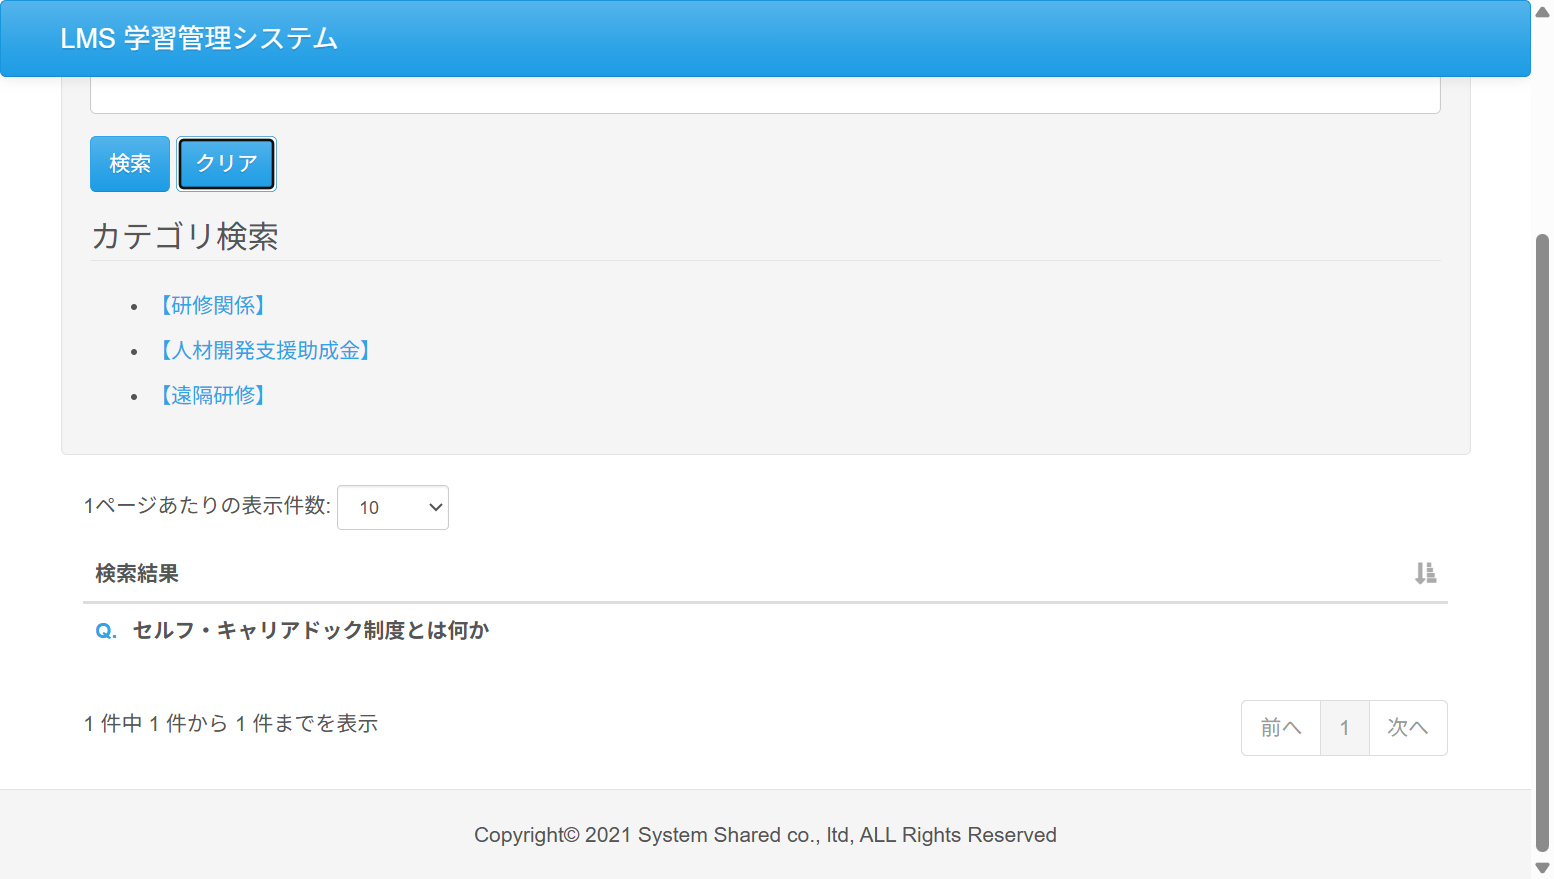
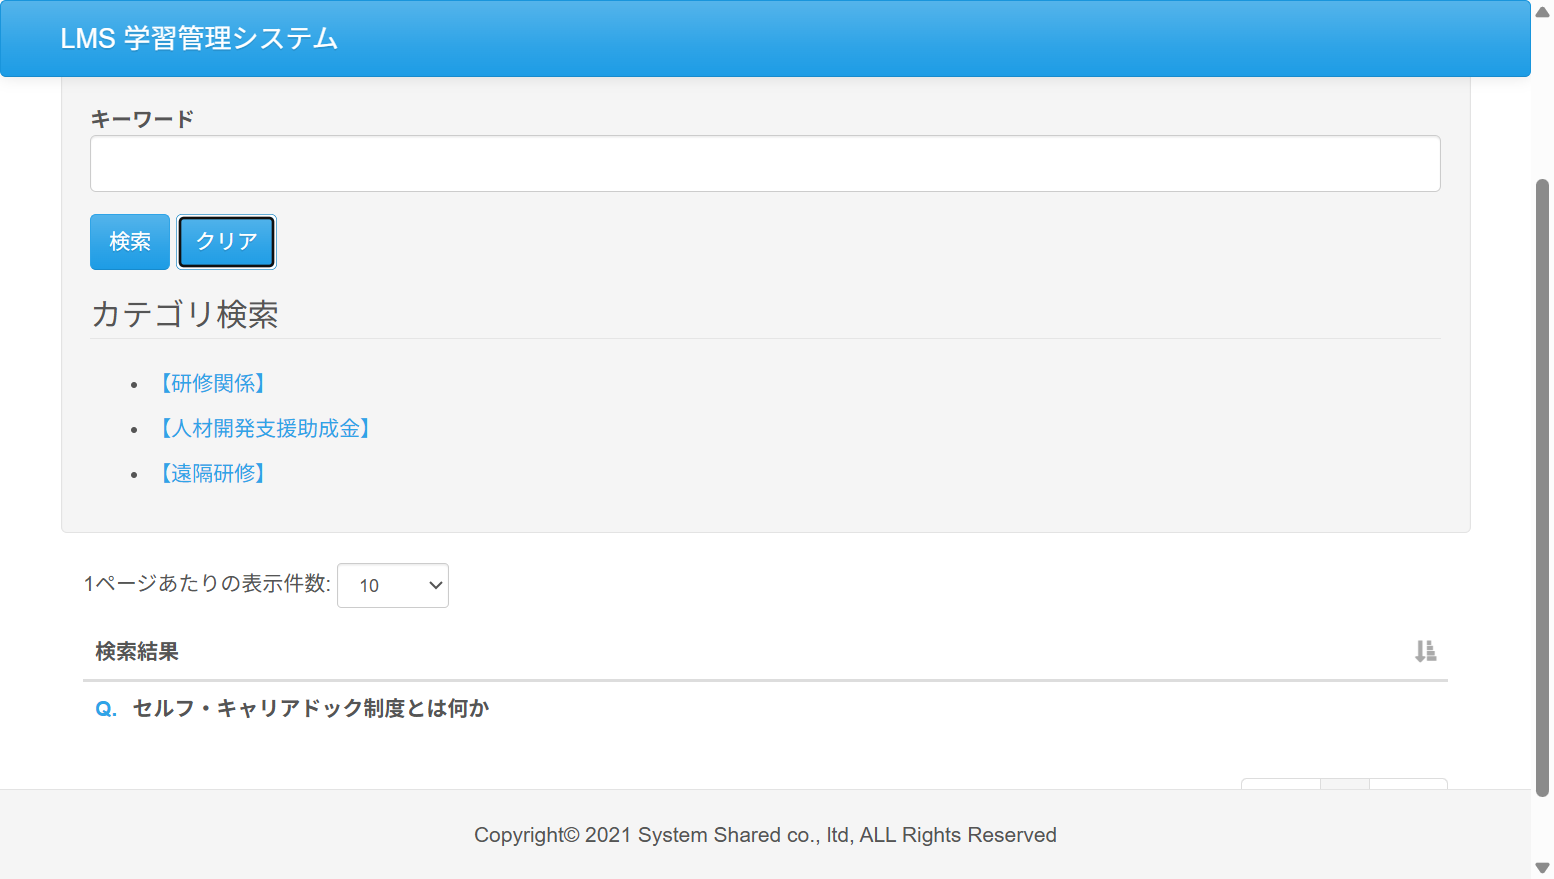
fix: Case06.java テストコード修正
Case06/test05(), test06()メソッドの作成

diff --git a/test_code_creation_name/src/test/java/jp/co/sss/lms/ct/f02_faq/Case06.java b/test_code_creation_name/src/test/java/jp/co/sss/lms/ct/f02_faq/Case06.java
@@ -3,9 +3,12 @@ package jp.co.sss.lms.ct.f02_faq;
 import static jp.co.sss.lms.ct.util.WebDriverUtils.*;
 import static org.junit.jupiter.api.Assertions.*;
 
+import java.io.File;
+import java.io.IOException;
 import java.util.Iterator;
 import java.util.Set;
 
+import org.apache.commons.io.FileUtils;
 import org.junit.jupiter.api.AfterAll;
 import org.junit.jupiter.api.BeforeAll;
 import org.junit.jupiter.api.DisplayName;
@@ -14,6 +17,8 @@ import org.junit.jupiter.api.Order;
 import org.junit.jupiter.api.Test;
 import org.junit.jupiter.api.TestMethodOrder;
 import org.openqa.selenium.By;
+import org.openqa.selenium.OutputType;
+import org.openqa.selenium.TakesScreenshot;
 import org.openqa.selenium.WebElement;
 
 /**
@@ -43,8 +48,8 @@ public class Case06 {
 	void test01() {
 		goTo("http://localhost:8080/lms/");
 		assertEquals("ログイン | LMS", webDriver.getTitle());
-		getEvidence(new Object() {
-		});
+		//		getEvidence(new Object() {
+		//		});
 	}
 
 	@Test
@@ -63,8 +68,8 @@ public class Case06 {
 		loginButton.click();
 
 		assertEquals("http://localhost:8080/lms/course/detail", webDriver.getCurrentUrl());
-		getEvidence(new Object() {
-		});
+		//		getEvidence(new Object() {
+		//		});
 	}
 
 	@Test
@@ -77,8 +82,8 @@ public class Case06 {
 		help.click();
 
 		assertEquals("http://localhost:8080/lms/help", webDriver.getCurrentUrl());
-		getEvidence(new Object() {
-		});
+		//		getEvidence(new Object() {
+		//		});
 	}
 
 	@Test
@@ -99,22 +104,44 @@ public class Case06 {
 			}
 		}
 		assertEquals("http://localhost:8080/lms/faq", webDriver.getCurrentUrl());
-		getEvidence(new Object() {
-		});
+		//		getEvidence(new Object() {
+		//		});
 	}
 
 	@Test
 	@Order(5)
 	@DisplayName("テスト05 カテゴリ検索で該当カテゴリの検索結果だけ表示")
-	void test05() {
-		// TODO ここに追加
+	void test05() throws IOException {
+		WebElement category = webDriver.findElement(By.linkText("【研修関係】"));
+		category.click();
+
+		scrollBy("window.innerHeight");
+		pageLoadTimeout(5);
+
+		// 検索結果の確認
+		WebElement result = webDriver.findElement(By.className("mb10"));
+		assertEquals("Q.キャンセル料・途中退校について", result.getText());
+
+		// エビデンスを取得する
+		File file = ((TakesScreenshot) webDriver).getScreenshotAs(OutputType.FILE);
+		FileUtils.copyFile(file, new File("C:\\work\\ScreenShot\\result.png"));
 	}
 
 	@Test
 	@Order(6)
 	@DisplayName("テスト06 検索結果の質問をクリックしその回答を表示")
-	void test06() {
-		// TODO ここに追加
+	void test06() throws IOException {
+		WebElement question = webDriver.findElement(By.className("sorting_1"));
+		question.click();
+
+		WebElement answer = webDriver.findElement(By.id("answer-h[${status.index}]"));
+		String answerTest = "A. 受講者の退職や解雇等、やむを得ない事情による途中終了に関してなど、"
+				+ "事情をお伺いした上で、協議という形を取らせて頂きます。 弊社営業担当までご相談下さい。";
+		assertEquals(answerTest, answer.getText());
+
+		// エビデンスを取得する
+		File file = ((TakesScreenshot) webDriver).getScreenshotAs(OutputType.FILE);
+		FileUtils.copyFile(file, new File("C:\\work\\ScreenShot\\faq.png"));
 	}
 
 }

diff --git a/test_code_creation_name/src/test/java/jp/co/sss/lms/ct/f02_faq/Case05.java b/test_code_creation_name/src/test/java/jp/co/sss/lms/ct/f02_faq/Case05.java
@@ -3,7 +3,6 @@ package jp.co.sss.lms.ct.f02_faq;
 import static jp.co.sss.lms.ct.util.WebDriverUtils.*;
 import static org.junit.jupiter.api.Assertions.*;
 
-import java.io.IOException;
 import java.util.Iterator;
 import java.util.Set;
 
@@ -107,7 +106,7 @@ public class Case05 {
 	@Test
 	@Order(5)
 	@DisplayName("テスト05 キーワード検索で該当キーワードを含む検索結果だけ表示")
-	void test05() throws IOException {
+	void test05() {
 		WebElement keyword = webDriver.findElement(By.name("keyword"));
 		keyword.sendKeys("セルフ");
 
@@ -128,14 +127,14 @@ public class Case05 {
 	@Test
 	@Order(6)
 	@DisplayName("テスト06 「クリア」ボタン押下で入力したキーワードを消去")
-	void test06() throws IOException {
+	void test06() {
 		WebElement clear = webDriver.findElement(By.xpath("//input[@value='クリア']"));
 		clear.click();
 
 		pageLoadTimeout(5);
 
 		// キーワード入力欄が空か確認
-		WebElement keyword = webDriver.findElement(By.id("form"));
+		WebElement keyword = webDriver.findElement(By.name("keyword"));
 		assertEquals("", keyword.getText());
 
 		getEvidence(new Object() {

diff --git a/test_code_creation_name/src/test/java/jp/co/sss/lms/ct/util/WebDriverUtils.java b/test_code_creation_name/src/test/java/jp/co/sss/lms/ct/util/WebDriverUtils.java
@@ -32,7 +32,7 @@ public class WebDriverUtils {
 		System.setProperty("webdriver.chrome.driver", "lib/chromedriver.exe");
 		webDriver = new ChromeDriver();
 	}
-	
+
 	/**
 	 * インスタンス終了
 	 */
@@ -48,7 +48,7 @@ public class WebDriverUtils {
 		webDriver.get(url);
 		pageLoadTimeout(5);
 	}
-	
+
 	/**
 	 * ページロードタイムアウト設定
 	 * @param second
@@ -56,7 +56,7 @@ public class WebDriverUtils {
 	public static void pageLoadTimeout(int second) {
 		webDriver.manage().timeouts().pageLoadTimeout(Duration.ofSeconds(second));
 	}
-	
+
 	/**
 	 * 要素の可視性タイムアウト設定
 	 * @param locater
@@ -66,7 +66,7 @@ public class WebDriverUtils {
 		WebDriverWait wait = new WebDriverWait(webDriver, Duration.ofSeconds(second));
 		wait.until(ExpectedConditions.visibilityOfElementLocated(locater));
 	}
-	
+
 	/**
 	 * 指定ピクセル分だけスクロール
 	 * @param pixel
@@ -75,7 +75,6 @@ public class WebDriverUtils {
 		((JavascriptExecutor) webDriver).executeScript("window.scrollBy(0," + pixel + ");");
 	}
 
-	
 	/**
 	 * 指定位置までスクロール
 	 * @param pixel
